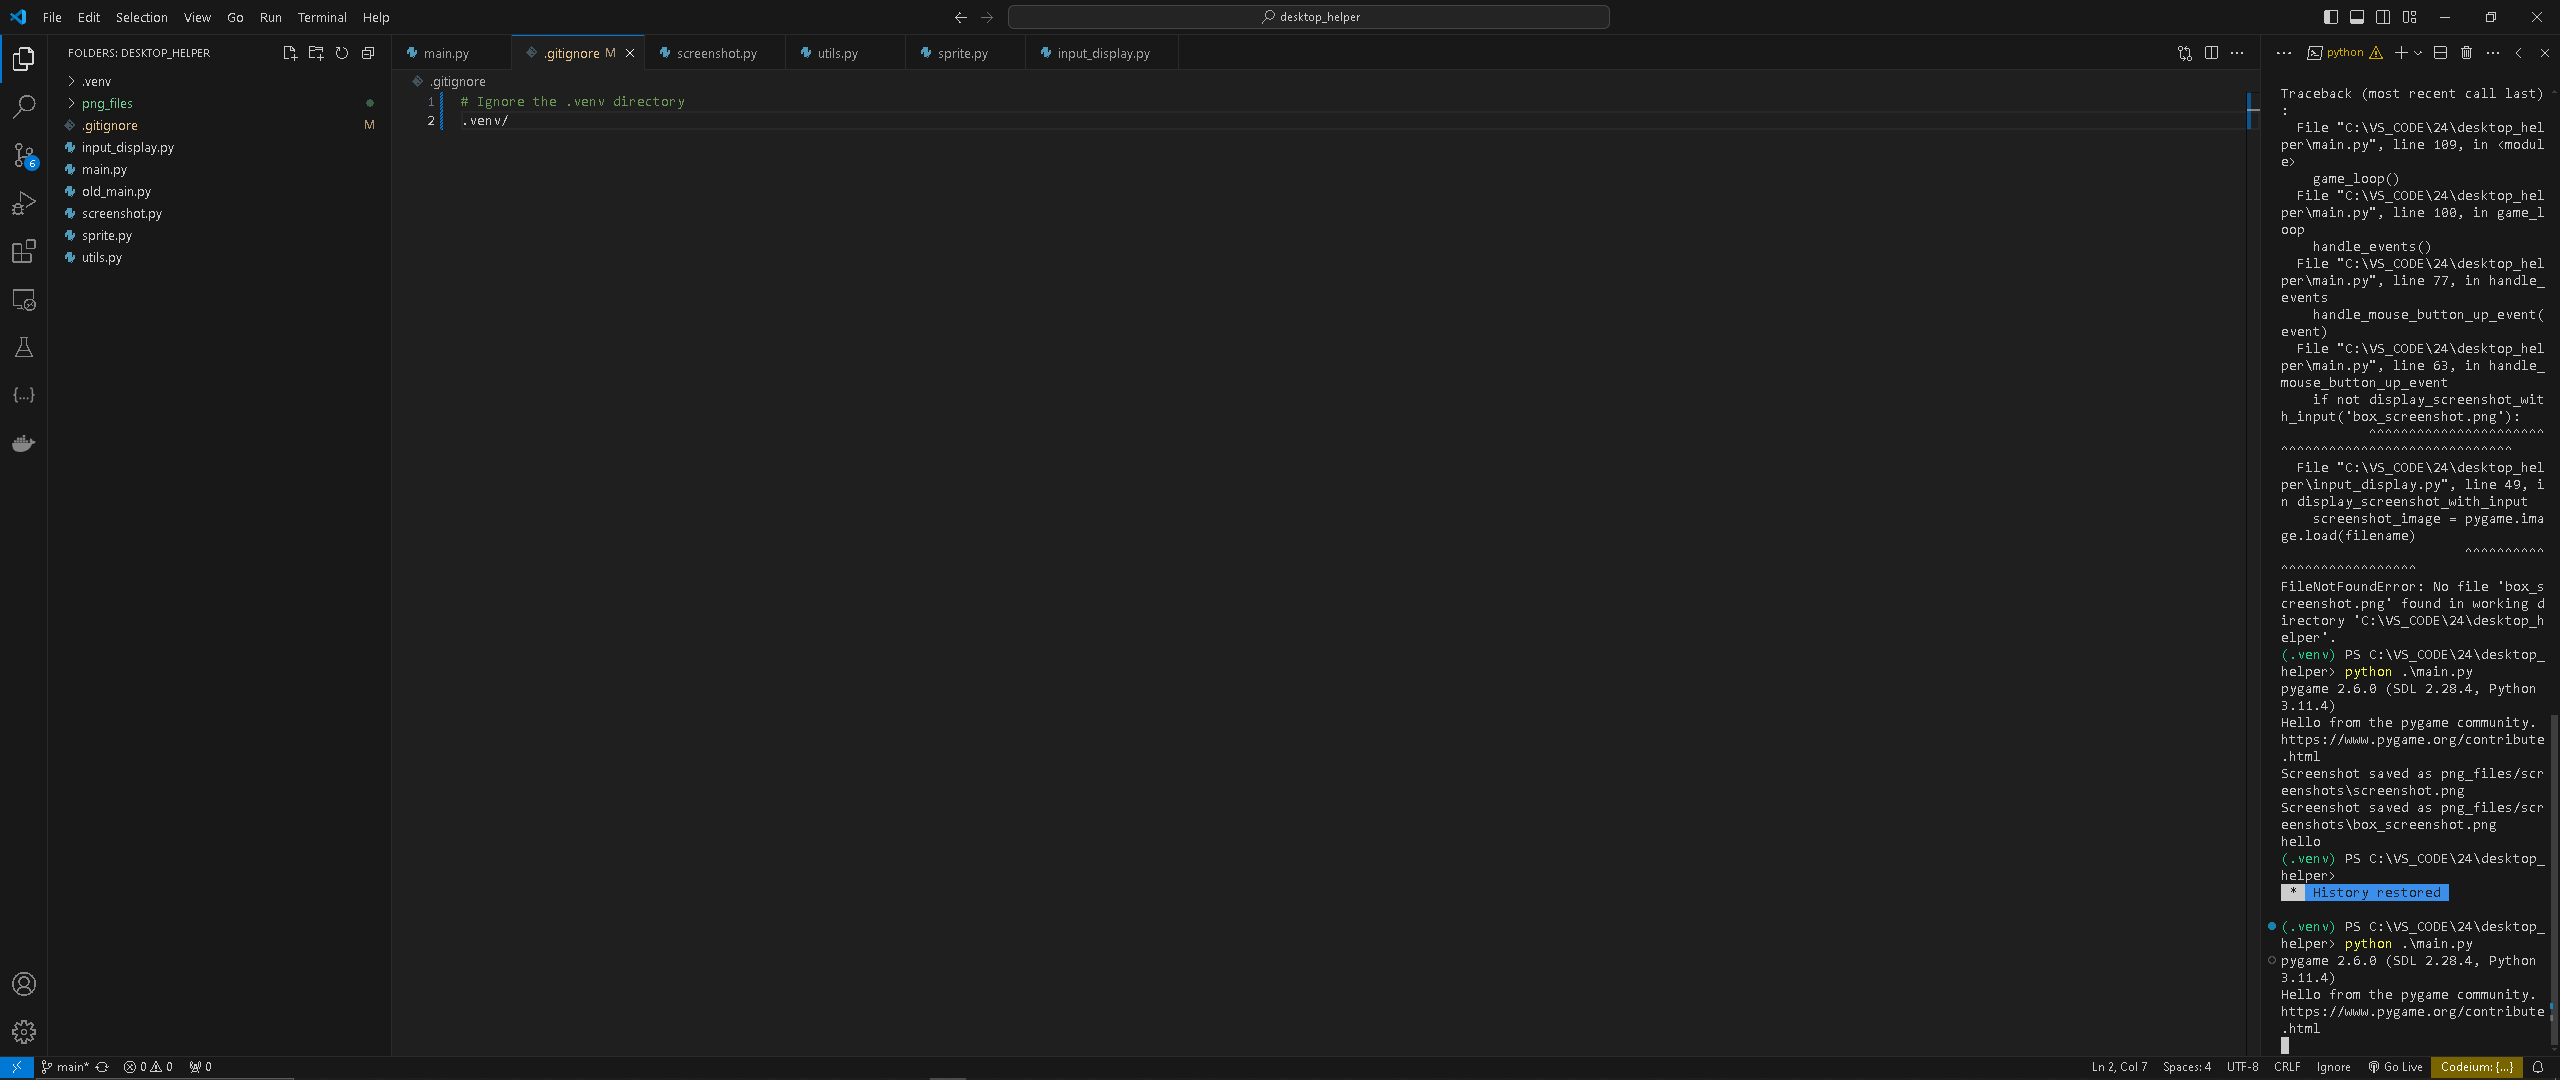
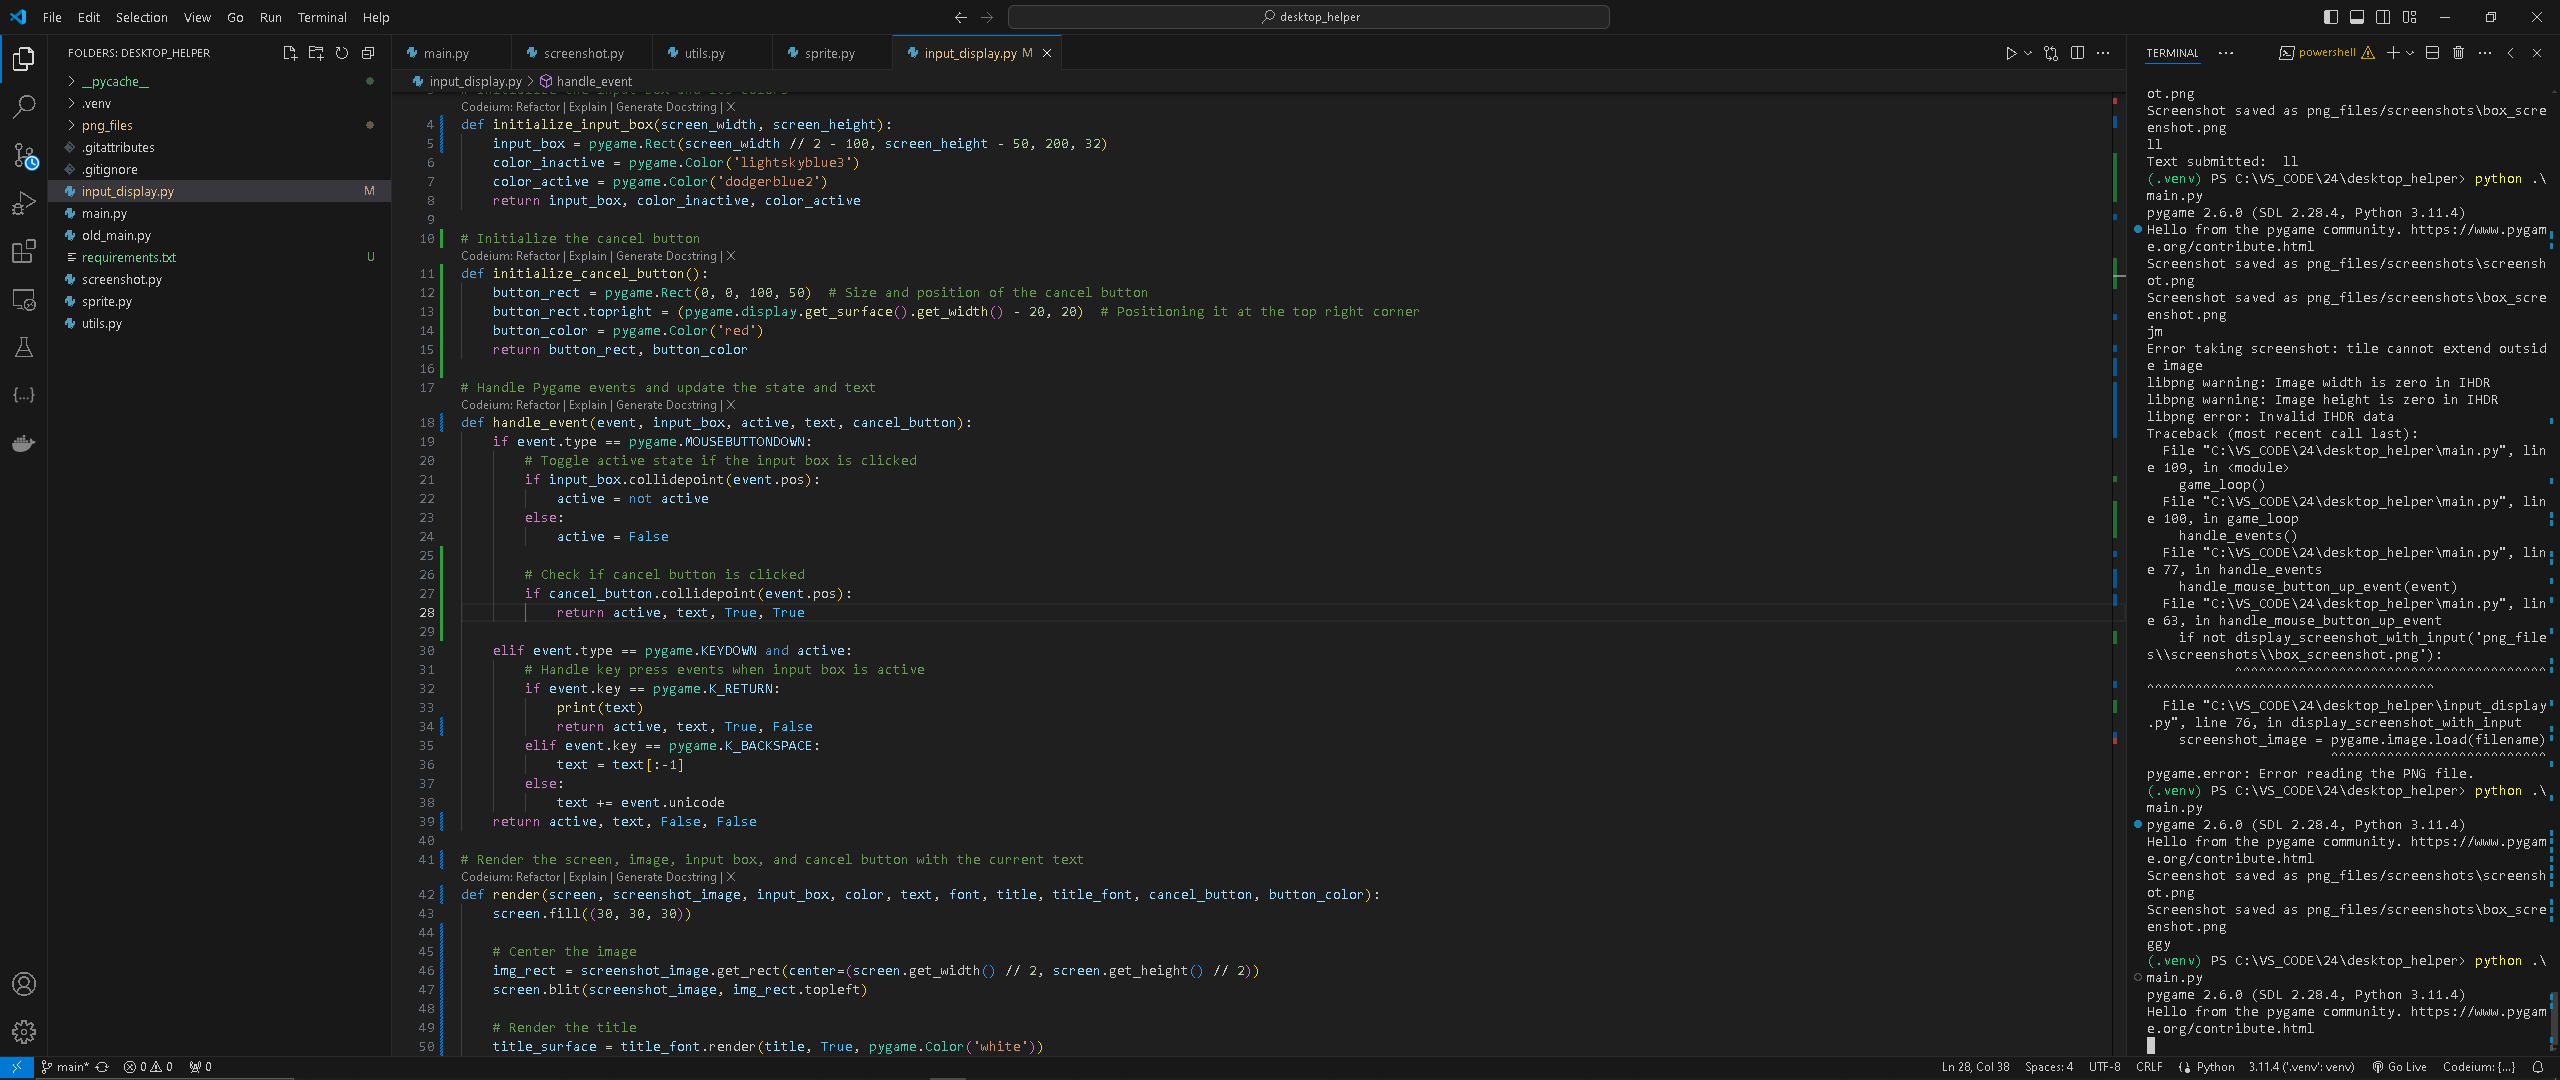
input_display centered
^^

diff --git a/input_display.py b/input_display.py
@@ -1,68 +1,100 @@
 import pygame
 
-#hello
-
 # Initialize the input box and its colors
-def initialize_input_box():
-    input_box = pygame.Rect(100, 300, 140, 32)
+def initialize_input_box(screen_width, screen_height):
+    input_box = pygame.Rect(screen_width // 2 - 100, screen_height - 50, 200, 32)
     color_inactive = pygame.Color('lightskyblue3')
     color_active = pygame.Color('dodgerblue2')
     return input_box, color_inactive, color_active
 
+# Initialize the cancel button
+def initialize_cancel_button():
+    button_rect = pygame.Rect(0, 0, 100, 50)  # Size and position of the cancel button
+    button_rect.topright = (pygame.display.get_surface().get_width() - 20, 20)  # Positioning it at the top right corner
+    button_color = pygame.Color('red')
+    return button_rect, button_color
+
 # Handle Pygame events and update the state and text
-def handle_event(event, input_box, active, text):
+def handle_event(event, input_box, active, text, cancel_button):
     if event.type == pygame.MOUSEBUTTONDOWN:
         # Toggle active state if the input box is clicked
         if input_box.collidepoint(event.pos):
             active = not active
         else:
             active = False
+
+        # Check if cancel button is clicked
+        if cancel_button.collidepoint(event.pos):
+            return active, text, True, True
+
     elif event.type == pygame.KEYDOWN and active:
         # Handle key press events when input box is active
         if event.key == pygame.K_RETURN:
             print(text)
-            return active, text, True
+            return active, text, True, False
         elif event.key == pygame.K_BACKSPACE:
             text = text[:-1]
         else:
             text += event.unicode
-    return active, text, False
+    return active, text, False, False
 
-# Render the screen, image, and input box with the current text
-def render(screen, screenshot_image, input_box, color, text, font):
+# Render the screen, image, input box, and cancel button with the current text
+def render(screen, screenshot_image, input_box, color, text, font, title, title_font, cancel_button, button_color):
     screen.fill((30, 30, 30))
-    screen.blit(screenshot_image, (50, 50))
+
+    # Center the image
+    img_rect = screenshot_image.get_rect(center=(screen.get_width() // 2, screen.get_height() // 2))
+    screen.blit(screenshot_image, img_rect.topleft)
+
+    # Render the title
+    title_surface = title_font.render(title, True, pygame.Color('white'))
+    title_rect = title_surface.get_rect(center=(screen.get_width() // 2, input_box.y - 40))
+    screen.blit(title_surface, title_rect.topleft)
 
     # Render the current text
     txt_surface = font.render(text, True, color)
     # Resize the box if the text is too long
     width = max(200, txt_surface.get_width() + 10)
     input_box.w = width
+    input_box.x = screen.get_width() // 2 - width // 2 
     screen.blit(txt_surface, (input_box.x + 5, input_box.y + 5))
     pygame.draw.rect(screen, color, input_box, 2)
 
+    # Render the cancel button
+    pygame.draw.rect(screen, button_color, cancel_button)
+    button_text = font.render('Cancel', True, pygame.Color('white'))
+    button_text_rect = button_text.get_rect(center=cancel_button.center)
+    screen.blit(button_text, button_text_rect.topleft)
+
     pygame.display.flip()
 
-# Main function to display the screenshot with an input box
+# Main function to display the screenshot with an input box and cancel button
 def display_screenshot_with_input(filename):
-    screen = pygame.display.get_surface()
+    pygame.init()
+    screen = pygame.display.set_mode((0, 0), pygame.FULLSCREEN)  # Set the screen to full screen
+    pygame.display.set_caption("Screenshot with Input Box")
     screenshot_image = pygame.image.load(filename)
-    input_box, color_inactive, color_active = initialize_input_box()
+    input_box, color_inactive, color_active = initialize_input_box(screen.get_width(), screen.get_height())
+    cancel_button, button_color = initialize_cancel_button()
     color = color_inactive
     active = False
     text = ''
     font = pygame.font.Font(None, 32)
+    title_font = pygame.font.Font(None, 48)  # Define the font for the title
+    title = "Enter your text below:"  # Define the title text
     clock = pygame.time.Clock()
 
     while True:
         for event in pygame.event.get():
             if event.type == pygame.QUIT:
                 return False
-            active, text, finished = handle_event(event, input_box, active, text)
+            active, text, finished, cancelled = handle_event(event, input_box, active, text, cancel_button)
             if finished:
                 return True
+            if cancelled:
+                return False
             # Update the color based on active state
             color = color_active if active else color_inactive
 
-        render(screen, screenshot_image, input_box, color, text, font)
+        render(screen, screenshot_image, input_box, color, text, font, title, title_font, cancel_button, button_color)
         clock.tick(30)
